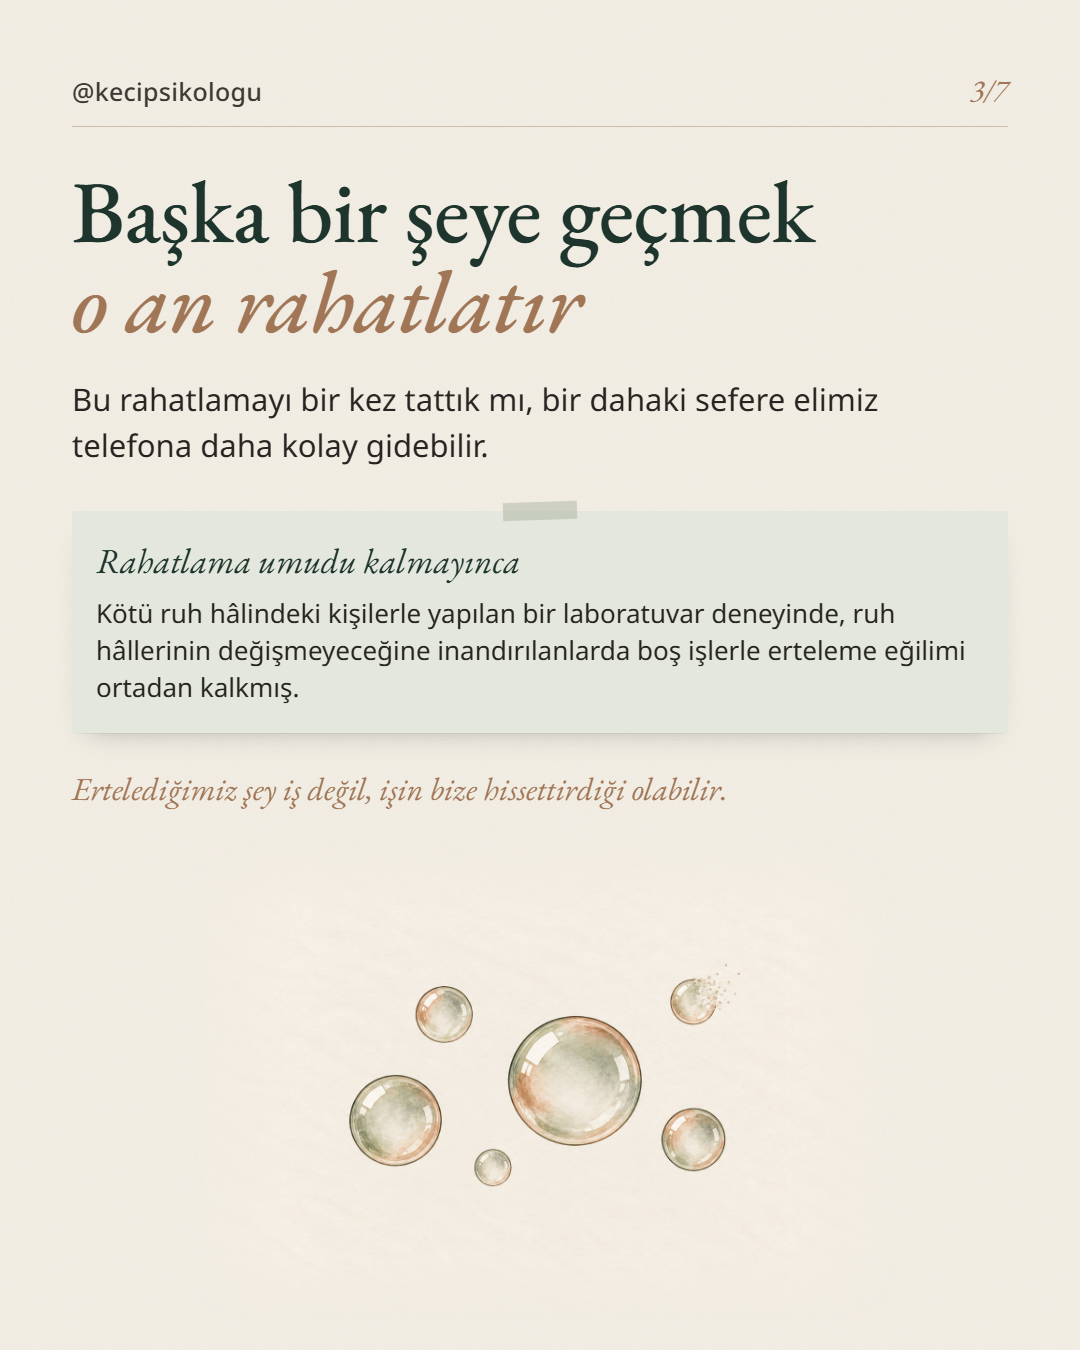
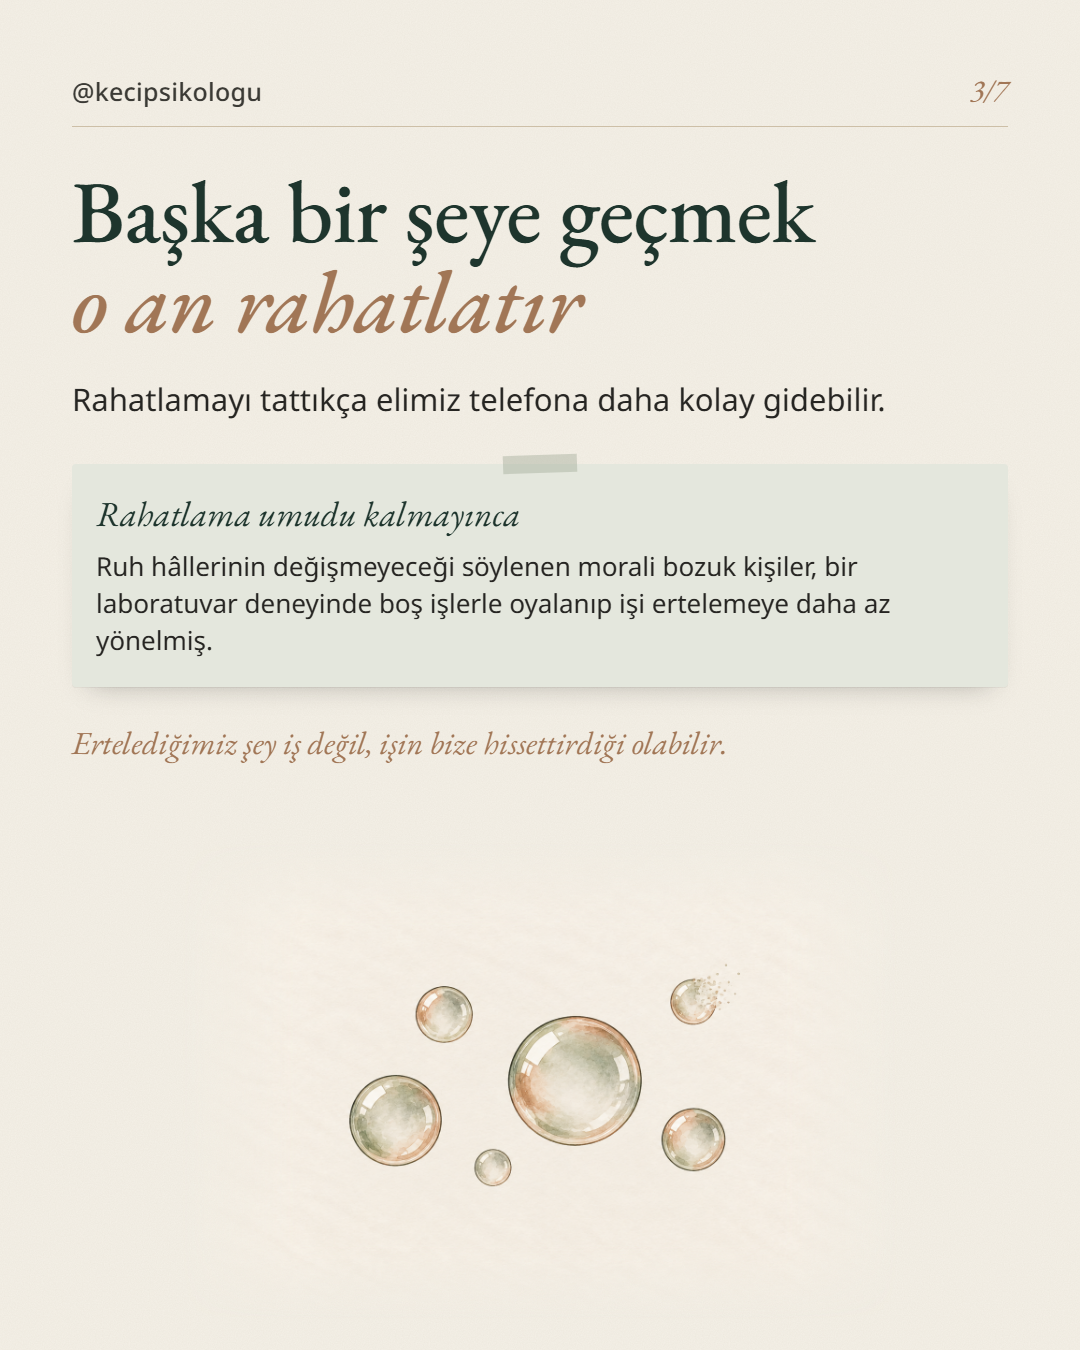
fix(posts): 22 Oct voice rewrite, research sentences in operator voice
Claude-Session: https://claude.ai/code/session_01YRjYDNXAqdazCHQBaajULc

Changed region(s): [[0.0611, 0.28, 0.8861, 0.5911]]

diff --git a/posts/2026-10-22-erteleme-korku/caption.md b/posts/2026-10-22-erteleme-korku/caption.md
@@ -8,7 +8,6 @@ Ertelediğiniz işleri ya da konuşmaları bir uzmanla birlikte düşünmek iste
 
 Kaynaklar:
 Journal of Personality and Social Psychology (2001): https://doi.org/10.1037/0022-3514.80.1.53
-Psychological Bulletin (2007): https://doi.org/10.1037/0033-2909.133.1.65
 Journal of Rational-Emotive & Cognitive-Behavior Therapy (2012): https://doi.org/10.1007/s10942-012-0153-9
 
 #psikoloji #psikoeğitim #erteleme #duygudüzenleme #özfarkındalık
